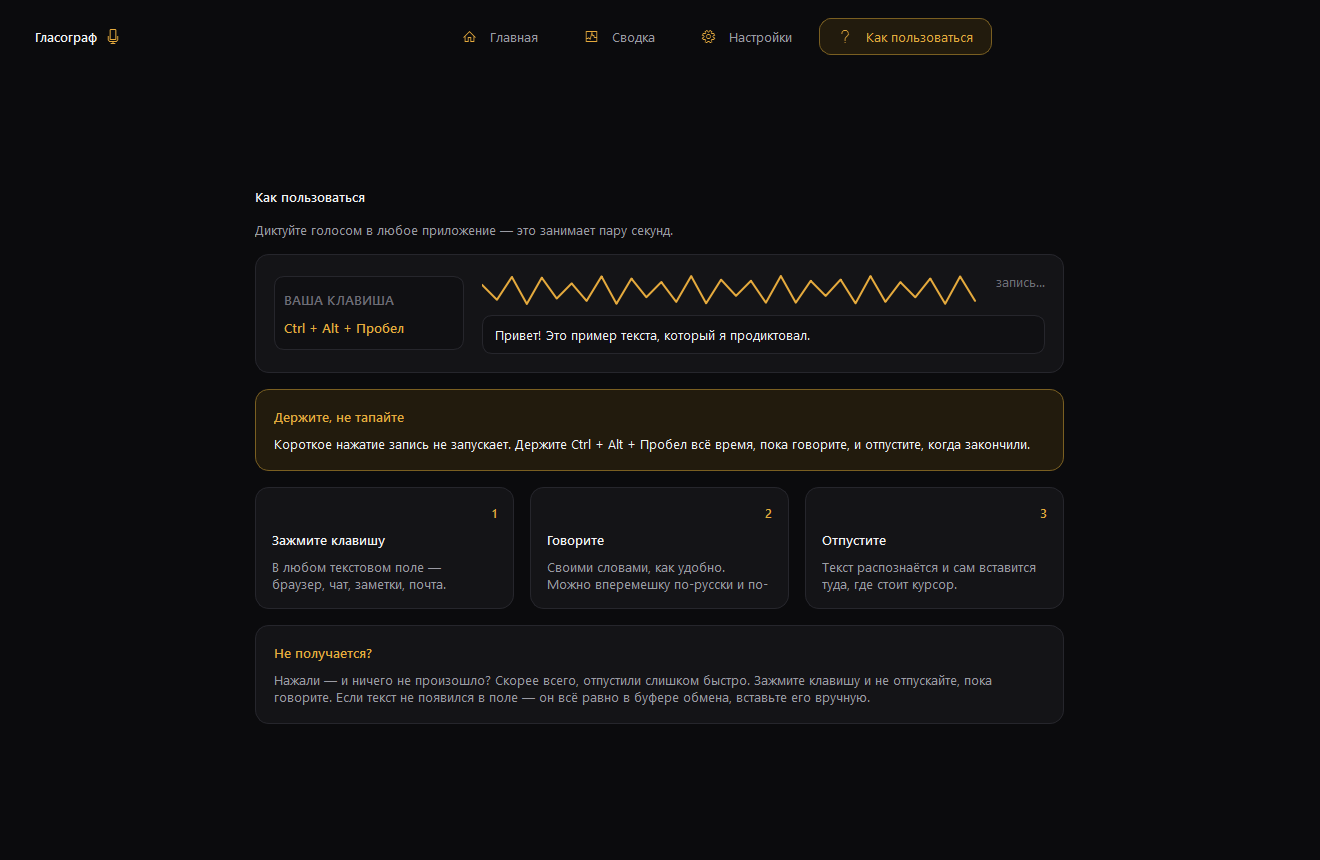
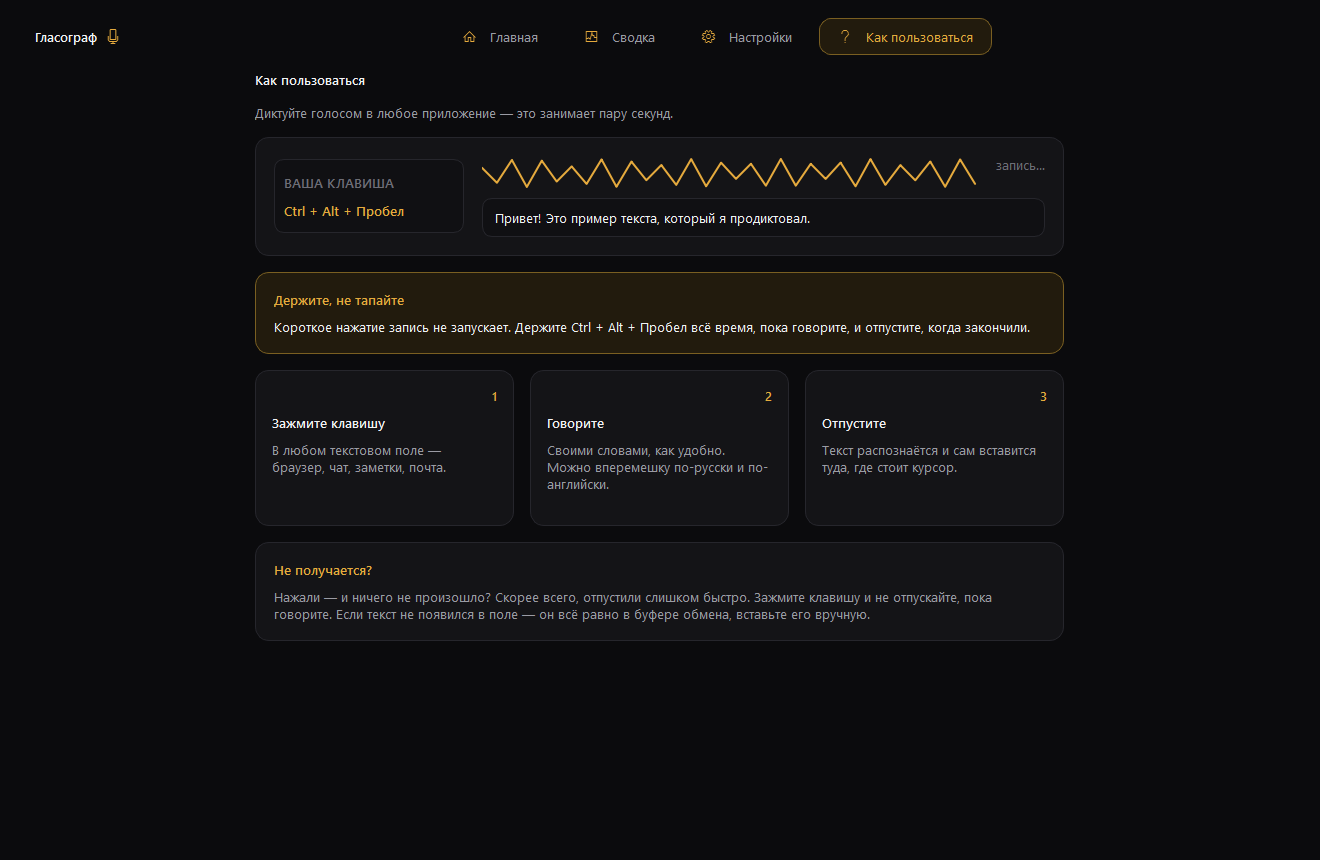
Страница «Как пользоваться»: содержимое сверху, карточки шагов не обрезают текст

diff --git a/app/qt_pages.py b/app/qt_pages.py
@@ -625,7 +625,6 @@ class HelpPage(BasePage):
         root = QtWidgets.QVBoxLayout(self)
         root.setContentsMargins(0, 0, 0, 0)
         root.setSpacing(16)
-        root.addStretch(1)
 
         wrap = QtWidgets.QWidget()
         wrap.setMaximumWidth(880)
@@ -684,6 +683,7 @@ class HelpPage(BasePage):
              "Текст распознаётся и сам вставится туда, где стоит курсор."),
         ):
             card = Card(margins=16)
+            card.setMinimumHeight(156)
             head = QtWidgets.QHBoxLayout()
             head.addStretch(1)
             head.addWidget(th.text_label(number, th.GOLD, 12, 600))
